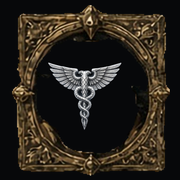
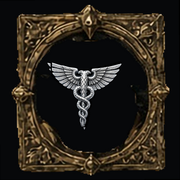
Ajusta o selo, o ouro e as linhas do códice.
O ícone senta reto. Águia, espadas e escudo entram no cabeçalho.

diff --git a/src/styles.css b/src/styles.css
@@ -1,13 +1,13 @@
 @import "tailwindcss";
 
 @theme {
-  --color-parchment: #16181b;
-  --color-plate: #22262b;
-  --color-ink: #f3f4f6;
-  --color-bronze: #c45a4e;
-  --color-muted: #b4bac1;
-  --color-rule: #5a6168;
-  --color-wine: #8e2430;
+  --color-parchment: #070605;
+  --color-plate: #120e0c;
+  --color-ink: #f4ead8;
+  --color-bronze: #c6a15a;
+  --color-muted: #b7a898;
+  --color-rule: #6a5340;
+  --color-wine: #8a1c24;
   --color-olive: #d7c3b8;
   --color-slate: #efe6de;
   --font-display: "Cormorant Garamond", Georgia, serif;
@@ -71,13 +71,15 @@
   display: flex;
   align-items: flex-end;
   justify-content: space-between;
+  flex-wrap: wrap;
+  gap: 0.35rem;
   margin-bottom: 0;
   border-bottom: 0;
   border-bottom-left-radius: 0;
   border-bottom-right-radius: 0;
   border-radius: 1.15rem;
-  border: 1px solid rgba(176, 168, 162, 0.35);
-  background: linear-gradient(180deg, rgba(92, 98, 106, 0.48), rgba(22, 24, 28, 0.62));
+  border: 1px solid rgba(198, 161, 90, 0.45);
+  background: linear-gradient(180deg, rgba(42, 28, 18, 0.72), rgba(8, 7, 6, 0.88));
   padding: 0.45rem 0.7rem 0.55rem;
   box-shadow: inset 0 1px 0 rgba(255, 255, 255, 0.22);
   backdrop-filter: blur(16px);
@@ -143,12 +145,49 @@
   padding-bottom: env(safe-area-inset-bottom);
 }
 
-.helix-banner {
-  width: 3.4rem;
+.mast-brand {
+  display: flex;
+  align-items: center;
+  gap: 0.75rem;
+  min-width: 0;
+}
+
+.mast-seal {
+  width: 3.3rem;
+  height: 3.3rem;
+  object-fit: contain;
+  flex: none;
+}
+
+.flavor {
+  margin: 0.15rem 0 0;
+  max-width: 18rem;
+  font-family: var(--font-display);
+  font-style: italic;
+  font-size: 0.82rem;
+  line-height: 1.2;
+  color: #e7d3a1;
+  -webkit-text-fill-color: #e7d3a1;
+}
+
+.ornament-row {
+  display: flex;
+  align-items: flex-end;
+  gap: 0.15rem;
+  flex: none;
+}
+
+.ornament-sword {
   height: 3.4rem;
-  object-fit: cover;
-  border: 0;
-  background: transparent;
+  width: auto;
+  object-fit: contain;
+}
+
+.ornament-eagle {
+  height: 2.3rem;
+  width: auto;
+  object-fit: contain;
+  margin-bottom: 0.35rem;
 }
 
 .wing-gene .plate {
@@ -1202,10 +1241,10 @@ html {
 }
 
 .plate {
-  border: 1px solid rgba(196, 168, 112, 0.55);
+  border: 1px solid rgba(198, 161, 90, 0.55);
   border-image: none;
   border-radius: 0.7rem;
-  background-color: rgba(8, 9, 11, 0.88);
+  background-color: rgba(8, 6, 5, 0.9);
   box-shadow: inset 0 0 0 1px rgba(0, 0, 0, 0.65);
   padding: 0;
 }
@@ -1298,6 +1337,14 @@ html {
   display: flex;
   align-items: flex-start;
   gap: 0.75rem;
+}
+
+.seal-skull {
+  display: block;
+  width: 2.1rem;
+  height: auto;
+  margin: 0 auto 0.15rem;
+  object-fit: contain;
 }
 
 .vault-mini {

diff --git a/src/components/shell.tsx b/src/components/shell.tsx
@@ -1,6 +1,7 @@
 import { useEffect, type ReactNode } from "react";
 import { Link, useRouterState } from "@tanstack/react-router";
 import { watchHerald } from "@/lib/signal";
+import { flavorFor } from "@/lib/flavor";
 
 const links = [
   { to: "/", label: "Diarium" },
@@ -24,12 +25,18 @@ export function Shell({ children }: { children: ReactNode }) {
   return (
     <div className={`shell mx-auto min-h-screen w-full max-w-3xl px-4 pt-5 ${path.startsWith("/protocolos") ? "wing-gene" : "wing-base"}`}>
       <header className="mast">
-        <div className="flex items-center gap-3">
-          <img src="/helix-bio.png" alt="" className="helix-banner iron-mark" />
+        <div className="mast-brand">
+          <img src="/app-icon.png" alt="" className="mast-seal" />
           <div>
             <p className="text-xs tracking-[0.28em] text-bronze uppercase">Codex</p>
             <p className="font-display text-3xl leading-none">Apothecarion</p>
+            <p className="flavor">{flavorFor(path)}</p>
           </div>
+        </div>
+        <div className="ornament-row" aria-hidden="true">
+          <img src="/relics/sword-i.png" alt="" className="ornament-sword" />
+          <img src="/relics/eagle.png" alt="" className="ornament-eagle" />
+          <img src="/relics/sword-ii.png" alt="" className="ornament-sword" />
         </div>
       </header>
       <div className={metal ? "plate plate-metal" : "plate"}>

diff --git a/src/lib/flavor.ts b/src/lib/flavor.ts
@@ -1,0 +1,8 @@
+export function flavorFor(path: string): string {
+  if (path.startsWith("/protocolos") || path.startsWith("/administracao")) return "Cuidai das relíquias como cuidais da doutrina.";
+  if (path.startsWith("/codex") || path.startsWith("/abrir")) return "A doutrina se escreve em velino. A convicção, em corrente.";
+  if (path.startsWith("/agumentarium")) return "A lâmina não pergunta duas vezes.";
+  if (path.startsWith("/conditionarium")) return "Onde a Cruzada hesita, o Reclusiam decide.";
+  if (path.startsWith("/tomar")) return "A Cruzada não abençoa. A Cruzada conta.";
+  return "Não há piedade. Não há remorso. Não há medo.";
+}

diff --git a/src/routes/protocolos.tsx b/src/routes/protocolos.tsx
@@ -204,7 +204,7 @@ function CyclePage() {
   return (
     <main className="space-y-5">
       <header className="gene-head">
-        <img src="/relics/gene-vault.png" alt="" className="vault-mini" />
+        <img src="/relics/skull-shield.png" alt="" className="seal-skull" />
         <p className="kicker">Gene-Seed</p>
         <h1 className="screen-title font-display">Implantation</h1>
         <p className="kicker">Matéria Medica</p>

diff --git a/src/routes/codex.tsx b/src/routes/codex.tsx
@@ -23,7 +23,7 @@ function CodexPage() {
   return (
     <main className="space-y-4">
       <header className="codex-mast">
-        <img src="/relics/sigil-codex.png" alt="" className="sigil sigil-lg" />
+        <img src="/relics/sword-i.png" alt="" className="ornament-sword" />
         <div>
           <p className="kicker">Database</p>
           <h1 className="screen-title font-display">Compound Codex</h1>

diff --git a/src/routes/administracao.tsx b/src/routes/administracao.tsx
@@ -31,7 +31,7 @@ function AdminPage() {
   return (
     <main className="space-y-4">
       <header className="gene-head">
-        <img src="/relics/gene-vault.png" alt="" className="vault-mini" />
+        <img src="/relics/sword-ii.png" alt="" className="ornament-sword" />
         <p className="kicker">Gene-Seed</p>
         <h1 className="screen-title font-display">Administração</h1>
       </header>
